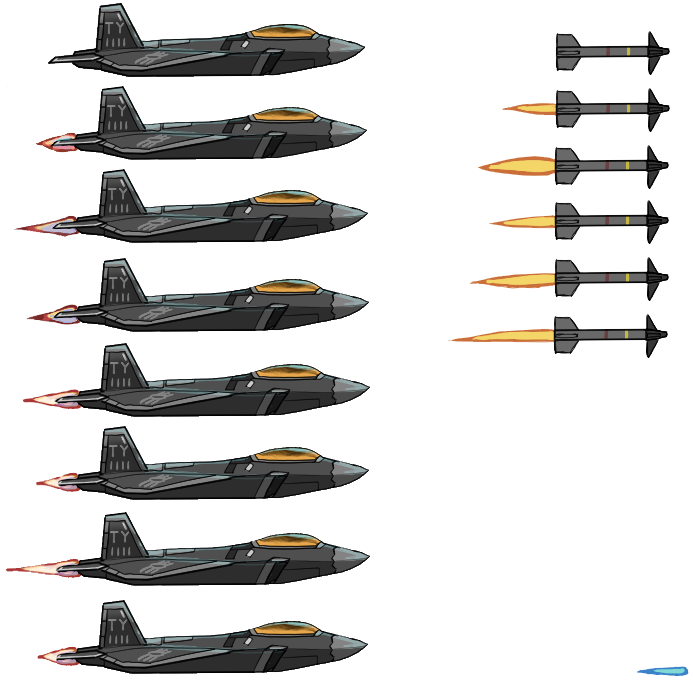
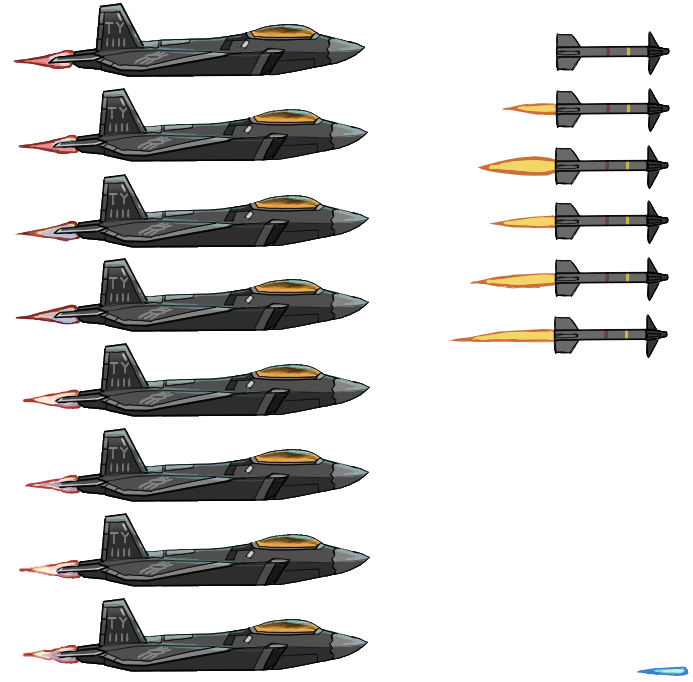
Player Move & shot
YEEEEEEEEEEEEEEEEES

diff --git a/Project/Code/player.py b/Project/Code/player.py
@@ -23,14 +23,15 @@ FRAMES_PER_ACTION = 8
 
 
 # Boy Event
-RIGHT_DOWN, LEFT_DOWN, RIGHT_UP, LEFT_UP, PULLUP_DOWN, PULLUP_UP, PUSHDOWN_DOWN, PUSHDOWN_UP, SLEEP_TIMER, SPACE = range(10)
+RIGHT_DOWN, LEFT_DOWN, RIGHT_UP, LEFT_UP, PULLUP_DOWN, PULLUP_UP, PUSHDOWN_DOWN, PUSHDOWN_UP, SLEEP_TIMER, BULLET_UP, BULLET_DOWN = range(11)
 
 key_event_table = {
     (SDL_KEYDOWN, SDLK_RIGHT): RIGHT_DOWN,
     (SDL_KEYDOWN, SDLK_LEFT): LEFT_DOWN,
     (SDL_KEYUP, SDLK_RIGHT): RIGHT_UP,
     (SDL_KEYUP, SDLK_LEFT): LEFT_UP,
-    (SDL_KEYDOWN, SDLK_SPACE): SPACE,
+    (SDL_KEYUP, SDLK_z): BULLET_UP,
+    (SDL_KEYDOWN, SDLK_z): BULLET_DOWN,
     (SDL_KEYDOWN, SDLK_UP): PULLUP_DOWN,
     (SDL_KEYDOWN, SDLK_DOWN): PUSHDOWN_DOWN,
     (SDL_KEYUP, SDLK_UP): PULLUP_UP,
@@ -44,89 +45,70 @@ key_event_table = {
 class RunState:
 
     @staticmethod
-    def enter(boy, event):
+    def enter(player, event):
         if event == RIGHT_DOWN:
-            boy.velocity += FLY_SPEED_PPS
+            player.velocity += FLY_SPEED_PPS
         elif event == LEFT_DOWN:
-            boy.velocity -= FLY_SPEED_PPS
+            player.velocity -= FLY_SPEED_PPS
         elif event == RIGHT_UP:
-            boy.velocity -= FLY_SPEED_PPS
+            player.velocity -= FLY_SPEED_PPS
         elif event == LEFT_UP:
-            boy.velocity += FLY_SPEED_PPS
+            player.velocity += FLY_SPEED_PPS
 
         if event == PULLUP_DOWN:
-            boy.altitude += FLY_UP_SPEED_PPS
+            player.altitude += FLY_UP_SPEED_PPS
         elif event == PUSHDOWN_DOWN:
-            boy.altitude -= FLY_UP_SPEED_PPS
+            player.altitude -= FLY_UP_SPEED_PPS
         elif event == PULLUP_UP:
-            boy.altitude -= FLY_UP_SPEED_PPS
+            player.altitude -= FLY_UP_SPEED_PPS
         elif event == PUSHDOWN_UP:
-            boy.altitude += FLY_UP_SPEED_PPS
+            player.altitude += FLY_UP_SPEED_PPS
 
-        boy.dir = clamp(-1, boy.velocity, 1)
+        if event == BULLET_DOWN:
+            player.armed = 1
+        elif event == BULLET_UP:
+            player.armed = 0
+
+        player.dir = 1
 
 
     @staticmethod
-    def exit(boy, event):
-        if event == SPACE:
-            boy.player_fire_bullet()
-
-    @staticmethod
-    def do(boy):
-        boy.frame = (boy.frame + FRAMES_PER_ACTION * ACTION_PER_TIME * game_framework.frame_time) % 8
-        boy.x += boy.velocity * game_framework.frame_time
-        boy.y += boy.altitude * game_framework.frame_time
-
-    @staticmethod
-    def draw(boy):
-        if boy.dir == 1:
-            boy.image.clip_draw(int(boy.frame) * 100, 100, 100, 100, boy.x, boy.y)
-        else:
-            boy.image.clip_draw(int(boy.frame) * 100, 0, 100, 100, boy.x, boy.y)
-
-
-class SleepState:
-
-    @staticmethod
-    def enter(boy, event):
-        boy.frame = 0
-        boy.angle = 0
-    @staticmethod
-    def exit(boy, event):
+    def exit(player, event):
         pass
 
     @staticmethod
-    def do(boy):
-        boy.frame = (boy.frame + FRAMES_PER_ACTION * ACTION_PER_TIME * game_framework.frame_time) % 8
-        boy.angle = (boy.angle + 12)%360
-        boy.gimage.opacify(random.randint(1,10)*0.1)
+    def do(player):
+        player.frame = (player.frame + FRAMES_PER_ACTION * ACTION_PER_TIME * game_framework.frame_time) % 8
+        player.x += player.velocity * game_framework.frame_time
+        player.y += player.altitude * game_framework.frame_time
+        player.shottime = get_time()
+        print(player.shottime)
+        if player.armed == 1 and player.shottime % player.bullet_load >= 0.01:
+            player.player_fire_bullet()
 
     @staticmethod
-    def draw(boy):
-        if boy.dir == 1:
-            boy.image.clip_composite_draw(int(boy.frame) * 100, 300, 100, 100, 3.141592 / 2, '', boy.x - 25, boy.y - 25, 100, 100)
-        else:
-            boy.image.clip_composite_draw(int(boy.frame) * 100, 200, 100, 100, -3.141592 / 2, '', boy.x + 25, boy.y - 25, 100, 100)
-        boy.gimage.clip_draw(int(boy.frame) * 100, 200, 100, 100, boy.x + 100 * math.cos(math.radians(boy.angle)), boy.y + 100 * math.sin(math.radians(boy.angle)))
-
-
+    def draw(player):
+            player.image.clip_draw(0, int(player.frame) * 85, 370, 85, player.x, player.y, 185, 42.5)
 
 
 next_state_table = {
-    RunState: {PUSHDOWN_DOWN : RunState, PUSHDOWN_UP : RunState, PULLUP_DOWN : RunState, PULLUP_UP : RunState, RIGHT_UP: RunState, LEFT_UP: RunState, LEFT_DOWN: RunState, RIGHT_DOWN: RunState, SPACE: RunState}
+    RunState: {PUSHDOWN_DOWN : RunState, PUSHDOWN_UP : RunState, PULLUP_DOWN : RunState, PULLUP_UP : RunState, RIGHT_UP: RunState, LEFT_UP: RunState, LEFT_DOWN: RunState, RIGHT_DOWN: RunState, BULLET_DOWN: RunState, BULLET_UP: RunState}
 }
 
 class Player:
 
     def __init__(self):
-        self.x, self.y = 0+150, 600 / 2
+        self.x, self.y = 0+150, 800 / 2
         # Boy is only once created, so instance image loading is fine
-        self.image = load_image('animation_sheet.png')
+        self.image = load_image('jet.png')
         self.font = load_font('ENCR10B.TTF', 16)
         self.dir = 1
         self.velocity = 0
         self.altitude = 0
+        self.armed = 0
         self.frame = 0
+        self.shottime = 0
+        self.bullet_load = 0.015
         self.event_que = []
         self.cur_state = RunState
         self.cur_state.enter(self, None)
@@ -135,7 +117,7 @@ class Player:
 
 
     def player_fire_bullet(self):
-        pbullet = P_Bullet(self.x, self.y, self.dir*3)
+        pbullet = P_Bullet(self.x, self.y, self.dir*15)
         game_world.add_object(pbullet, 1)
 
 

diff --git a/Project/Code/bullet.py b/Project/Code/bullet.py
@@ -7,7 +7,7 @@ class P_Bullet:
     def __init__(self, x = 400, y = 300, velocity = 1):
         if P_Bullet.image == None:
             P_Bullet.image = load_image('jet.png')
-        self.x, self.y, self.velocity = x, y, velocity
+        self.x, self.y, self.velocity = x + 50, y-10, velocity
 
     def draw(self):
         self.image.clip_draw(630, 0, 60, 20, self.x, self.y)

diff --git a/Project/Code/main_state.py b/Project/Code/main_state.py
@@ -6,7 +6,7 @@ from pico2d import *
 import game_framework
 import game_world
 
-from boy import Player
+from player import Player
 from sky import Sky
 
 
